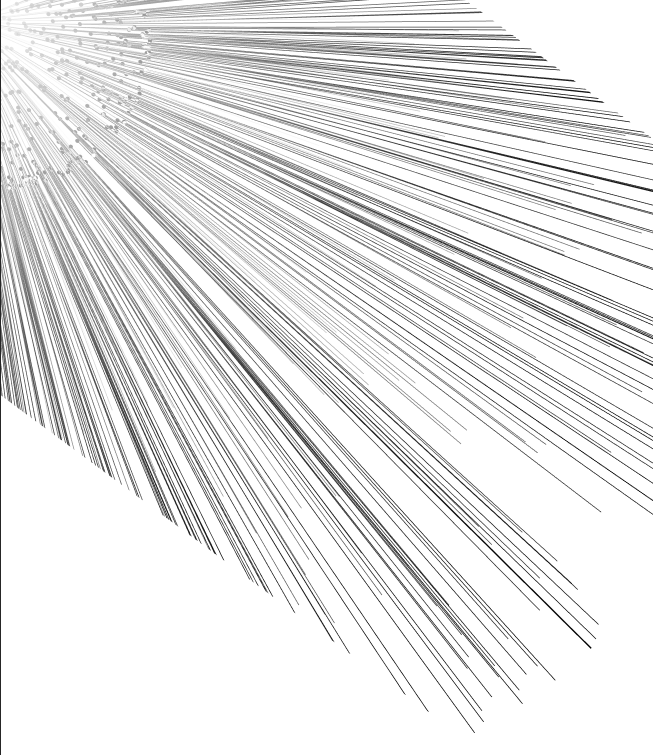
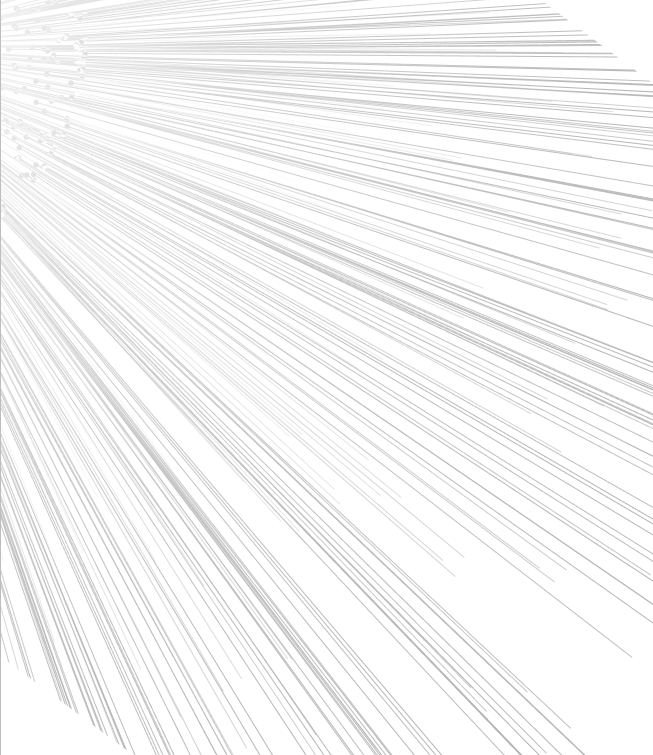
feat(hero): implement hero section, metrics counter and resources preview

diff --git a/styles/blocks/_hero.scss b/styles/blocks/_hero.scss
@@ -1,0 +1,160 @@
+@use "../helpers" as *;
+
+.hero {
+  &__main {
+
+
+    @include tablet-above {
+      display: grid;
+      grid-template-columns: 60% auto;
+      grid-template-areas:
+  "body resources"
+  "metrics resources";
+    }
+  }
+
+  &__body {
+    grid-area: body;
+    padding-top: rem(150);
+    padding-bottom: rem(100);
+    padding-right: rem(50);
+
+    @include laptop {
+      padding-top: rem(100);
+      padding-right: rem(40);
+    }
+
+    @include tablet {
+      padding-right: 0;
+      padding-top: rem(40);
+      padding-bottom: rem(30);
+    }
+  }
+
+  &__subtitle {
+    @include fluid-text(30, 18);
+
+    font-family: var(--font-family-accent), sans-serif;
+    font-weight: 500;
+    color: var(--color-dark-40);
+
+    &:not(:last-child) {
+      margin-bottom: rem(30);
+
+      @include tablet {
+        margin-bottom: rem(14);
+      }
+    }
+  }
+
+  &__title {
+    &:not(:last-child) {
+      margin-bottom: rem(20);
+
+      @include tablet {
+        margin-bottom: rem(10);
+      }
+    }
+  }
+
+  &__metrics {
+    grid-area: metrics;
+
+    @include tablet-above {
+      border-top: var(--border);
+    }
+
+    @include tablet {
+      &::before {
+        width: 100vw;
+        right: calc(var(--container-padding-x) * -1);
+      }
+    }
+  }
+
+  &__resources-preview {
+    grid-area: resources;
+    padding-left: rem(80);
+    padding-bottom: rem(80);
+    background: url("../../images/resources-preview/bg.png") 0 0/cover no-repeat;
+
+    @include laptop {
+      padding-left: rem(50);
+      padding-bottom: rem(50);
+    }
+
+    @include tablet-above {
+      border-left: var(--border);
+    }
+
+    @include tablet {
+      width: 100vw;
+      margin-left: calc(var(--container-padding-x) * -1);
+      padding: rem(100) rem(40) rem(40);
+      background-image: url("../../images/resources-preview/bg.png");
+      background-size: contain;
+
+    }
+  }
+
+  &__advantages {
+    --rightPadding: #{rem(80)};
+
+    border-block: var(--border);
+
+    &-list {
+
+      @include laptop {
+        --rightPadding: #{rem(50)};
+      }
+
+      @include laptop-s {
+        --rightPadding: #{rem(30)};
+      }
+
+      @include tablet-above {
+        display: grid;
+        grid-template-columns: repeat(3, 1fr);
+        column-gap: calc(var(--rightPadding) * 2);
+      }
+
+    }
+
+    &-item {
+      position: relative;
+      padding-block: rem(50);
+
+      @include tablet {
+        padding-block: rem(30);
+
+        &:not(:last-child) {
+          border-bottom: var(--border);
+        }
+      }
+
+      &:not(:last-child) {
+        &::after {
+          @include laptop {
+            --rightPadding: #{rem(50)};
+          }
+
+          @include laptop-s {
+            --rightPadding: #{rem(30)};
+          }
+
+          @include tablet-above {
+            content: '';
+            position: absolute;
+            top: 0;
+            left: calc(100% + var(--rightPadding));
+            width: rem(1);
+            height: 100%;
+            background-color: var(--color-dark-20);
+          }
+        }
+      }
+    }
+  }
+
+
+}

diff --git a/styles/blocks/_advantage-card.scss b/styles/blocks/_advantage-card.scss
@@ -1,0 +1,55 @@
+@use "../helpers" as *;
+
+.advantage-card {
+  display: grid;
+  row-gap: rem(30);
+
+  @include laptop {
+    row-gap: rem(20);
+  }
+
+  @include mobile {
+    row-gap: rem(10);
+  }
+
+  &__image {
+    width: rem(40);
+  }
+
+  &__link {
+    --circlSize: #{rem(52)};
+    --circlMarginLeft: #{rem(20)};
+
+    position: relative;
+    display: grid;
+    row-gap: rem(4);
+    padding-right: calc(var(--circlSize) + var(--circlMarginLeft));
+
+    @include laptop {
+      --circlSize: #{rem(44)};
+      --circlMarginLeft: #{rem(14)};
+    }
+
+    @include mobile {
+      --circlSize: #{rem(40)};
+      --circlMarginLeft: #{rem(14)};
+    }
+
+    &::after {
+      @include square(var(--circlSize));
+      @include abs-y;
+
+      content: '';
+      right: 0;
+      background: url("../../icons/arrow-top-right_black.svg") center no-repeat var(--color-accent);
+      border-radius: 50%;
+    }
+  }
+
+  &__details {
+    @include fluid-text(20, 14);
+
+    font-family: var(--font-family-accent), sans-serif;
+
+  }
+}

diff --git a/styles/blocks/_metrics.scss b/styles/blocks/_metrics.scss
@@ -1,0 +1,56 @@
+@use "../helpers" as *;
+
+.metrics {
+  --padingRight: #{rem(100)};
+
+  &__list {
+    display: grid;
+    grid-template-columns: repeat(3, 1fr);
+    column-gap: var(--padingRight);
+
+    @include laptop {
+      --padingRight: #{rem(80)};
+    }
+
+    @include tablet {
+      --padingRight: #{rem(40)};
+    }
+  }
+
+  &__item {
+    position: relative;
+    display: flex;
+    flex-direction: column-reverse;
+    padding-block: rem(50);
+
+    @include tablet-above {
+      row-gap: rem(10);
+    }
+
+    @include tablet {
+      padding-block: rem(20);
+    }
+
+    &:not(:last-child) {
+      &:after {
+        content: '';
+        position: absolute;
+        top: 0;
+        left: calc(100% + var(--padingRight) / 2);
+        width: rem(1);
+        height: 100%;
+        background-color: var(--color-dark-40);
+      }
+    }
+  }
+
+  &__value {
+    display: inline-flex;
+    column-gap: rem(5);
+    font-weight: 600;
+  }
+
+  &__sign {
+    color: var(--color-accent);
+  }
+}

diff --git a/styles/blocks/_team.scss b/styles/blocks/_team.scss
@@ -1,0 +1,30 @@
+@use "../helpers" as *;
+
+.team {
+  --personImageSize: #{rem(60)};
+
+  display: flex;
+  padding: rem(10);
+  background-color: var(--color-dark-10);
+  border-radius: rem(100);
+  border: rem(1) solid var(--color-dark-15);
+
+  @include laptop {
+    padding: rem(8);
+  }
+
+  @include tablet {
+    --personImageSize: #{rem(40)};
+  }
+
+  &__person {
+    width: var(--personImageSize);
+    background-color: var(--color-dark-15);
+    border-radius: 50%;
+    border: var(--border);
+
+    &:not(:first-child) {
+      margin-left: calc(var(--personImageSize) / 4 * -1);
+    }
+  }
+}

diff --git a/styles/blocks/_resources-preview.scss b/styles/blocks/_resources-preview.scss
@@ -1,0 +1,28 @@
+@use "../helpers" as *;
+
+.resources-preview {
+  display: flex;
+  flex-direction: column;
+  row-gap: rem(30);
+  align-items: start;
+  justify-content: end;
+
+  @include laptop {
+    row-gap: rem(20);
+  }
+
+  &__body {
+    display: grid;
+    row-gap: rem(10);
+
+    @include mobile {
+      row-gap: rem(4);
+    }
+  }
+
+  &__button {
+    @include mobile-s {
+      width: 100%;
+    }
+  }
+}
